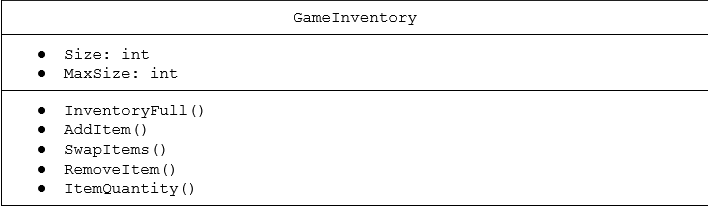
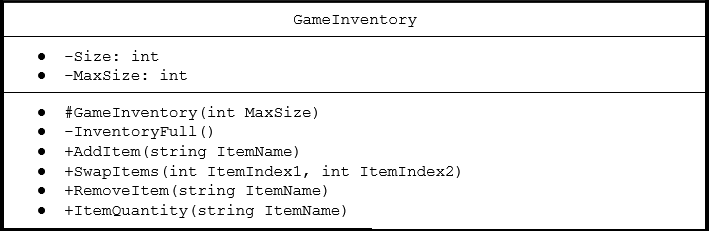
Added evaluation and expandablity and corrected some mistakes in calculating time complexity

Changed region(s): [[0.0, 0.0, 1.0, 1.0], [0.404, 0.0583, 0.5904, 0.1165]]

diff --git a/MultisetDesign.md b/MultisetDesign.md
@@ -1,13 +1,13 @@
 # Introduction
 
-In this document I will discuss the creation of an RPG game inventory system using MultiSet design with a Sequence\<"string">. The string will represent an ID of an item in the game world. This ID is mapped to another system for item qualities such as stat modifiers, value, and item type. The inventory will max out at 64 items. The items in the game will not stack and instead all individually take up an inventory slot. There will also be a hop bar displayed to the player at all times where items can be used quickly. The inventory will be displayed to the user in an 8x8 grid with the first position being filled with the first item and then the first item of the second row being the 9th element of the list. The player will be able to move items around their inventory so they can organize it to their own wants.
+In this document I will discuss the creation of an RPG game inventory system using MultiSet design with a Sequence\<"string">. The string will represent an ID of an item in the game world. This ID is mapped to another system for item qualities such as stat modifiers, value, and item type. The inventory will max out at 64 items for player characters and will be adjustable based off of a private variable. The items in the game will not stack and instead all individually take up an inventory slot. There will also be a hop bar displayed to the player at all times where items can be used quickly. The inventory will be displayed to the user in an 8x8 grid with the first position being filled with the first item and then the first item of the second row being the 9th element of the list. The player will be able to move items around their inventory so they can organize it to their own wants.
 
 # Design Philosophy
 
 My main reason for utilizing a Sequence as my MultiSet basis is for the simplicity and ease of readability for other developers when working with it. Other developers will use this multiset when programming character functions in the game as the inventory is very closely tied with characters. It will also be used with the item ID mapping system so that items can have large property sets. Players will be the users with this system while playing the game and managing their items.
 
 
-# Core Operations (Add edge cases if not present)
+# Core Operations
 
 Any Multiset design is going to need to do a handful of operations to be able to be used properly as the game inventory. Below are a couple of the operations needed.
 
@@ -21,11 +21,11 @@ Another major operation needed for the inventory system is the capability to rem
 
 ## Operation 3
 
-Another major operation for the inventory would be to access an element given an index. This would be useful for items shown in the inventory hop bar that can be used as they would be able to be used immediately without any searching being done. This would have a time complexity of O(1).
+Another major operation for the inventory would be to access an element given an index. This would be useful for items shown in the inventory hop bar that can be used as they would be able to be used immediately. This would have a time complexity of O(n). The worst case is when the item accesses is in the max slot of the inventory. If the item is used often and the character has it near the front of the inventory the time complexity will be lower. Regardless because of the low max slot being used for player characters (64 slots) the O(n) time complexity does not hurt the Sequence a great amount.
 
 ## Operation 4
 
-One other thing that the inventory is going to need to be able to do is swap items between different indexes. This would be done by giving the index of the two items to be swapped from the front end and then removing them from the inventory before inserting them back in each others places. This prevents them from accidently inserting over the inventory limit. 
+One other thing that the inventory is going to need to be able to do is swap items between different indexes. This would be done by giving the index of the two items to be swapped from the front end and then removing them from the inventory before inserting them back in each others places. This prevents them from accidently inserting over the inventory limit. This should be a very straightforward operation and will not have super complex coding or timing.
 
 Below is brief example of how this could look:
 
@@ -46,7 +46,7 @@ The worst case time complexity of this would be O(1). This is because all functi
 
 ## Operation 5
 
-A final major operation needed is access to how large the inventory currently is. The use of how large the inventory is comes in assessing whether or not the inventory is full yet. This would be obtained by taking the index of the last element in the Sequence and adding 1. This results in an O(1) time complexity. 
+A final major operation needed is access to how large the inventory currently is. The use of how large the inventory is comes in assessing whether or not the inventory is full yet. This would be obtained by taking the index of the last element in the Sequence and adding 1. This results in an O(1) time complexity. There are no specific edge cases to be explored for this operation.
 
 # Set Operations
 
@@ -59,6 +59,8 @@ Getting a quantity count of how many of a single item is in the inventory would 
 # UML Diagram
 
 ![UML Digram](UMLDiagram.png "UML Diagram showing off class")
+
+The members Size and MaxSize are private members that should only be adjusted by the class methods and functions so that they are kept in proper order for gameplay mechanics. InventoryFull is private as it will only end up being used by internal operations that are adding items or for set operations. The rest of the functions are public as they will be accessed by outside classes and instances like a Shop class where a vendor could sell and buy from the player character. It would also be used in fight operations when the player character would pick up loot from a mob or other character.
 
 # Trade-off Analysis
 ## Compare basics of the two structures
@@ -76,14 +78,20 @@ I did not use a Hash Table as I decided that not having “stacks” of items wa
 | Disadvantages  | Quantity based operations slow  | More complex to set up |
 | New Item Complexity  | O(1)  | O(n)  | 
 | Remove Item Complexity  | O(n)  | O(n)  | 
-| Swap Complexity  | O(1)  | O(1)  | 
+| Swap Complexity  | O(n)  | O(n)  | 
 | Inventory Size Complexity  | O(1)  | O(1)  | 
 
 # Alternative Design Sketch
 
 # Evaluation Plan
 
-To fully evaluate the Sequence a set of tests would need developed to show proper functionality. These tests would consist of operations that a player would be using against the inventory. Ensuring that it works properly for when they are interfacing with it. To make sure that it would continue working for other use cases I want to utilize many private variables so that it can be highly customized for different cases. While the player character shouljhd have a max inventory size of 64 things like monsters or non-playable characters will not have as large of an inventory. 
+## Evaluation
+
+To fully evaluate the Sequence a set of tests would need developed to show proper functionality. These tests would consist of operations that a player would be using against the inventory. Ensuring that it works properly for when they are interfacing with it. This would include swapping procedures, inserting procedures and other small tests. I would then need to have a print out of the inventory after each operation to ensure that it occurred properly. 
+
+## Customizability and Expandability
+
+To make sure that it would continue working for other use cases I want to utilize many private variables so that it can be highly customized for different cases. While the player character should have a max inventory size of 64 things like monsters or non-playable characters will not have as large of an inventory. Being able to modify options like this help in making it more easily utilized. 
 
 # Conclusion
 
